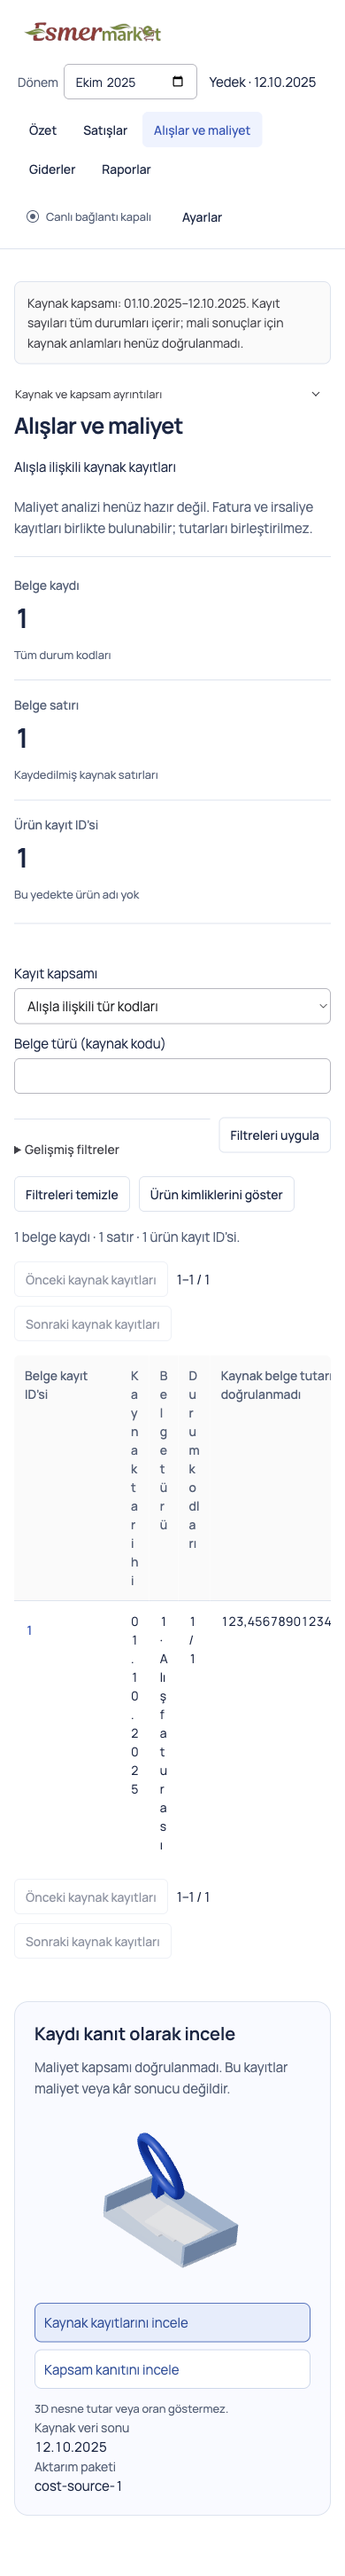
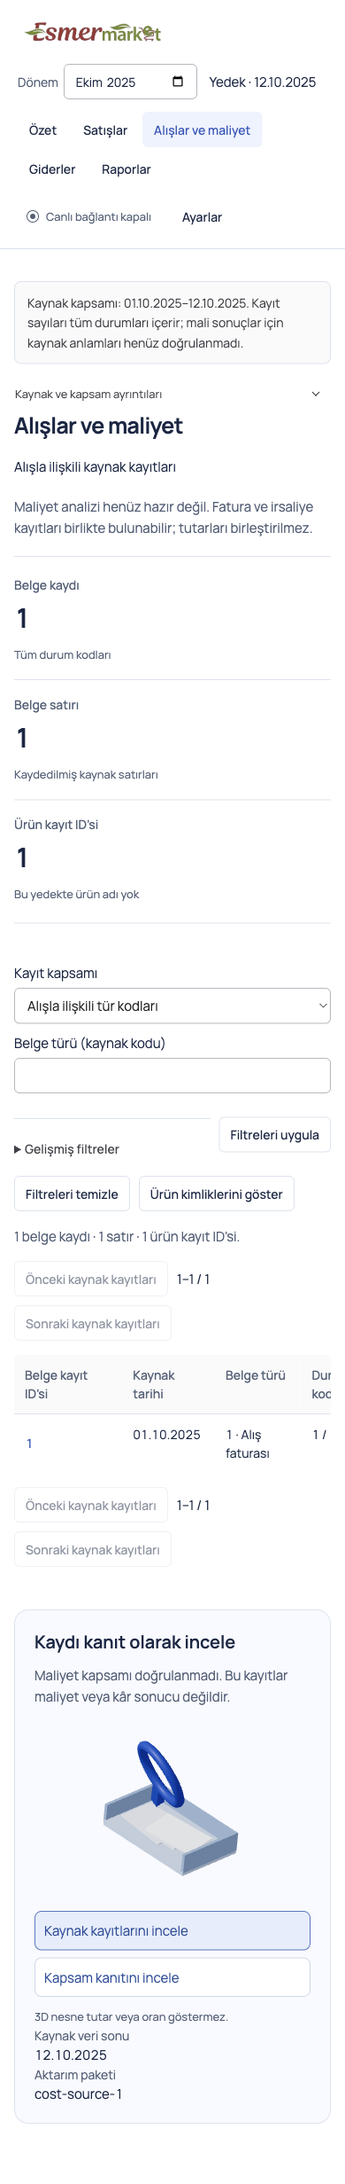
fix(purchasing): preserve readable columns and selected navigation

diff --git a/src/ui/purchasing/PurchasingWorkspace.tsx b/src/ui/purchasing/PurchasingWorkspace.tsx
@@ -10,7 +10,7 @@ export const purchasingWarningLabels: Record<string, string> = {
   AMBIGUOUS_REPLACEMENT_PRICE: "Aynı tarihte çelişen alış fiyatları var; ikame fiyatı belirlenemiyor", PURCHASE_RECONCILIATION: "Alış belgesi ve satır tutarları uzlaşmıyor", UNSUPPORTED_PURCHASING_STATE: "Alış belgesinin durumu desteklenmiyor", UNSUPPORTED_COST_MAPPING: "Maliyet eşlemesi desteklenmiyor", UNSUPPORTED_PURCHASING_MAPPING: "Alış eşlemesi desteklenmiyor", MISSING_COST: "Maliyet kanıtı eksik", UNVALIDATED_COST: "Maliyet kanıtı doğrulanmamış", UNKNOWN_UNIT: "Maliyet birimi bilinmiyor", UNKNOWN_TAX: "Maliyetin KDV temeli bilinmiyor", NEGATIVE_COST: "Negatif maliyet kullanılamaz", UNDOCUMENTED_ZERO: "Sıfır maliyet belgelenmemiş", RETURN_ATTRIBUTION: "Müşteri iadesinin özgün satış maliyeti doğrulanamadı", INCOMPLETE_SALES: "Satış uzlaşması eksik; tam dönem kârı gösterilmez", NEGATIVE_STOCK: "Negatif stok kaydı var; stok düzeltilmedi ve kayıp varsayılmadı", SPARSE_WASTE_RECORDING: "Fire kayıtları seyrek veya eksik. Kayıt olmaması kayıp olmadığı anlamına gelmez.", INVENTORY_UNAVAILABLE: "Desteklenen stok gözlemi yok", CONVERSION_CONFLICT: "İrsaliye / fatura bağlantısı çelişkili; hesaplama dışında", UNSUPPORTED_PURCHASE_BASIS: "Alış birimi veya tutarı doğrulanamadı", UNSUPPORTED_PURCHASING_EVIDENCE: "Alış veya tedarikçi kanıtı eksik",
 };
 export function PurchasingWorkspace({ context, saved }: { context: ReportContext; saved?: PurchasingView }) {
-  const [selection, setSelection] = useState<CostSelection>("exceptions");
+  const [selection, setSelection] = useState<CostSelection | null>("exceptions");
   const [inspectionPage, setInspectionPage] = useState(0);
   const [selectedLine, setSelectedLine] = useState<string>();
   const inspection = useRef<HTMLElement>(null);
@@ -70,7 +70,7 @@ export function PurchasingWorkspace({ context, saved }: { context: ReportContext
       {[...new Set([...g.warnings, ...p.warnings])].length > 0 && <ul className="warnings">{[...new Set([...g.warnings, ...p.warnings])].map(code => <li key={code}>{purchasingWarningLabels[code] ?? "Veri kanıtı desteklenmiyor; ilgili hesap kullanılamıyor"}</li>)}</ul>}
       {p.exclusions.length > 0 && <section className="block"><h2>Alış hesabı dışında</h2><ul>{pageRows(p.exclusions, exclusionPage).map(row => <li key={row.documentId}>{source(row.documentId)} · {purchasingWarningLabels[row.reason] ?? "Belge kanıtı desteklenmiyor"}</li>)}</ul><PageControls page={exclusionPage} total={p.exclusions.length} label="Alış hesabı dışındaki belgeler" onPage={setExclusionPage} /></section>}
       </details>
-      <nav className="subview-nav" aria-label="Alış ve maliyet görünümleri">{([["history", "Alış geçmişi"], ["returns", "Tedarikçi iadeleri"], ["replacement", "İkame maliyeti"], ["inventory", "Stok ve fire"]] as const).map(([value, label]) => <Button variant={subview === value ? "outline" : "ghost"} key={value} aria-pressed={subview === value} onClick={() => { setSubview(value); setDocumentId(undefined); }}>{label}</Button>)}</nav>
+      <nav className="subview-nav" aria-label="Alış ve maliyet görünümleri">{([["history", "Alış geçmişi"], ["returns", "Tedarikçi iadeleri"], ["replacement", "İkame maliyeti"], ["inventory", "Stok ve fire"]] as const).map(([value, label]) => <Button variant={subview === value ? "outline" : "ghost"} key={value} aria-pressed={subview === value} onClick={() => { setSubview(value); setSelection(value === "history" ? "history" : null); setDocumentId(undefined); }}>{label}</Button>)}</nav>
       {(subview === "history" || subview === "returns") && <div className="purchase-filters"><label>Alış ürünü<select aria-label="Alış ürünü" value={product} onChange={event => { setProduct(event.target.value); setHistoryPage(0); setReturnPage(0); }}><option value="">Tüm ürünler</option>{products.map(([id, name]) => <option key={id} value={id}>{name}</option>)}</select></label><label>Tedarikçi<select aria-label="Tedarikçi" value={supplier} onChange={event => { setSupplier(event.target.value); setHistoryPage(0); setReturnPage(0); }}><option value="">Tüm tedarikçiler</option>{suppliers.map(([id, name]) => <option key={id} value={id}>{name}</option>)}</select></label></div>}
       {subview === "history" && <section className="block" aria-label="Alış geçmişi"><h2>Alış geçmişi</h2><div className="table-scroll" tabIndex={0} aria-label="Alış kayıtları"><table><thead><tr><th>Tarih / ürün</th><th>Tedarikçi</th><th>Miktar</th><th>Birim alış fiyatı</th><th>Kaynak belgeler</th></tr></thead><tbody>{pageRows(history, historyPage).map(row => <tr key={row.lineId}><td>{date(row.date)}<br />{row.productName}</td><td>{row.supplierName}</td><td>{decimal(row.quantity)} {unit(row.unit)}</td><td>{money(row.unitCost)} / {unit(row.unit)}</td><td>{row.sourceDocumentIds.map(id => <span key={id}>{source(id)} </span>)}</td></tr>)}</tbody></table></div><PageControls page={historyPage} total={history.length} label="Alış geçmişi" onPage={setHistoryPage} />{!history.length && <p>Bu seçimde desteklenen alış kaydı yok.</p>}<p className="caption">Bağlı irsaliye ve fatura tek olay sayılır; özgün belgelerin ikisi de incelenebilir. Tedarikçi, alış belgesinden alınır.</p></section>}
       {subview === "returns" && <section className="block" aria-label="Tedarikçi iadeleri"><h2>Tedarikçi iadeleri</h2><div className="table-scroll" tabIndex={0}><table><thead><tr><th>Ürün / tedarikçi</th><th>Fiziksel iade</th><th>Belge talep tutarı</th><th>Belge tanınan alacağı</th><th>İkame ürünle kapatma</th><th>Kaynak</th></tr></thead><tbody>{pageRows(returnDocuments, returnPage).map(row => <tr key={row.documentId}><td>{[...new Set(returns.filter(line => line.documentId === row.documentId).map(line => line.productName))].join(", ")}<br />{row.supplierName}</td><td>{row.physicalReturn ? "Belgelenmiş" : "Kanıt yok"}</td><td>{amount(row.requestedRecovery)}</td><td>{amount(row.recognizedCredit)}</td><td>{row.replacementSettlement === "confirmed" ? "Kanıtla doğrulanmış" : "Bilinmiyor"}</td><td>{row.sourceDocumentIds.map(id => <span key={id}>{source(id)} </span>)}</td></tr>)}</tbody></table></div><PageControls page={returnPage} total={returnDocuments.length} label="Tedarikçi iadeleri" onPage={setReturnPage} />{!returns.length && <p>Bu seçimde desteklenen tedarikçi iadesi yok.</p>}<p className="caption">Talep ve alacak belge toplamlarıdır; ürün filtresine paylaştırılmaz. Fiziksel iade tek başına alacak, ödeme veya ikame ürünle kapatma kanıtı değildir. Müşteri iadeleri satış kapsamında ayrıca gösterilir.</p></section>}

diff --git a/src/ui/scenes/CostInspectionScene.tsx b/src/ui/scenes/CostInspectionScene.tsx
@@ -8,7 +8,7 @@ function InspectionRenderEvidence() {
  return null;
 }
 export type CostSelection = "exceptions" | "evidence" | "history";
-export function CostInspectionScene({ selection, onExceptions, onEvidence, source = false, hasEvidence = true, onHistory }: { selection: CostSelection; onExceptions: () => void; onEvidence: () => void; source?: boolean; hasEvidence?: boolean; onHistory?: () => void }) {
+export function CostInspectionScene({ selection, onExceptions, onEvidence, source = false, hasEvidence = true, onHistory }: { selection: CostSelection | null; onExceptions: () => void; onEvidence: () => void; source?: boolean; hasEvidence?: boolean; onHistory?: () => void }) {
  return <div data-scene="cost-inspection" className="cost-inspection-scene">
   <div role="img" aria-label="Çapraz inceleme merceği ve açık kanıt tepsisi; tutarları temsil etmez">
    <SceneFrame camera={{ position: [3, 3, 5], zoom: 66 }}>

diff --git a/src/ui/purchasing/control-desk.css b/src/ui/purchasing/control-desk.css
@@ -16,4 +16,6 @@
 .purchasing-control-desk .detail-panel { overflow-wrap:anywhere; }
 @media(max-width:900px) { .purchasing-inspection-body { grid-template-columns:minmax(0,1fr); } .cost-inspection-scene .page-scene-stage { height:230px; } .purchasing-control-desk .metrics { grid-template-columns:minmax(0,1fr); } }
 
-.source-purchasing-main { min-width:0; overflow-wrap:anywhere; }
+.source-purchasing-main { min-width:0; }
+.source-purchasing-main > .data-status { overflow-wrap:anywhere; }
+.source-purchasing-desk .table-scroll table { min-width:720px; }

diff --git a/workstreams/page-control-desks/purchasing/evidence.md b/workstreams/page-control-desks/purchasing/evidence.md
@@ -23,3 +23,7 @@ The fixed geometry is authored locally from torus and box primitives: a diagonal
 The source-workspace test sometimes types into controls during a query refresh after `Filtreleri temizle`; its Sales branch input remounts/resets before all characters arrive. Identical line45 failure reproduced on unchanged baseline executable with `--repeat-each=3`: 1 failed / 5 passed. It also passed standalone and in one full focused run. Purchasing changes leave source query guards/filter behavior intact. Parent should reconcile the already incoming Sales fixes and rerun integration; this record does not claim a uniformly passing source suite.
 
 Independent review, full unit/integration suites and final integration belong to the parent. Windows installation/scaling/performance gates remain unperformed. No production source access or private data was used. Packaging retains existing unsigned/default-icon and dependency-path warnings.
+
+## Independent-review repair
+
+Rebased onto merged Sales main c58efdb3. Independent standards rebuild ran all8 focused tests successfully. Finish review found narrow source cells collapsing to single-character lines; standards review also found scene history selection stayed pressed after navigating to returns. Added regression assertions and observed both fail on the pre-repair package (date split into10 rectangles; history still true). Scoped long-hash wrapping to provenance and retained a720px scrollable table; synchronized scene selection with existing subview navigation. Fresh typecheck/lint/build/offline package and all8 focused tests pass after repair. Narrow and no-WebGL captures refreshed; date now remains a single readable line. Original baseline filter-timing limitation is recorded above; this final focused run passes.
